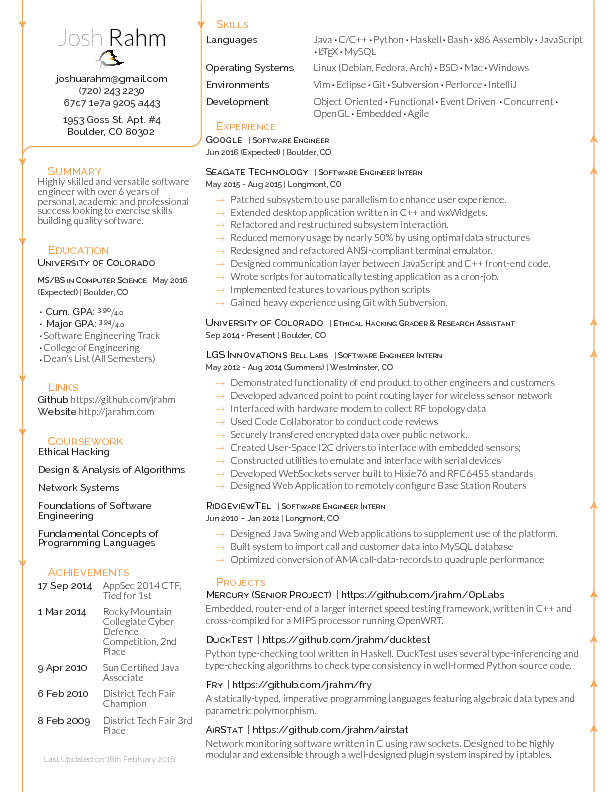
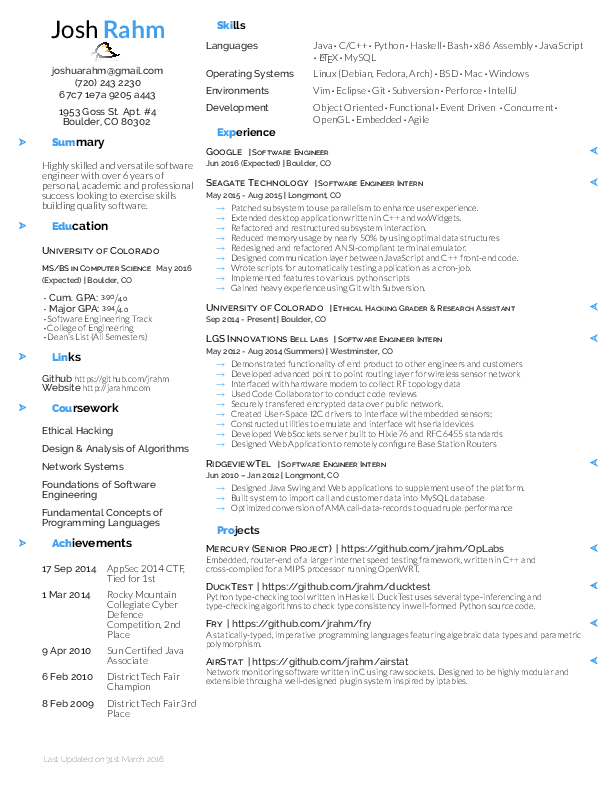
update to resume. New bold style

Changed region(s): [[0.3105, 0.0, 0.9935, 1.0], [0.031, 0.0303, 0.3105, 0.9394], [0.2484, 0.9394, 0.2794, 0.9697]]

diff --git a/resume.tex b/resume.tex
@@ -35,26 +35,26 @@
 \setlength{\TPHorizModule}{1in}
 \setlength{\TPVertModule}{1in}
 
-\begin{textblock}{1}(8.035,0) % adjust this!
-\begin{tikzpicture}[x=1in,y=1in]
-    \draw[-, line width=0.1em, color=topheadings]
-            (0, 0) -+ (0, 11);
-\end{tikzpicture}
-\end{textblock}
-
-\begin{textblock}{1}(0.098,0) % adjust this!
-\begin{tikzpicture}[x=1in,y=1in]
-    \draw[-, line width=0.1em, color=topheadings]
-            (0, 0) -+ (0, 11);
-\end{tikzpicture}
-\end{textblock}
-
-\begin{textblock}{1}(2.580,0) % adjust this!
-\begin{tikzpicture}[x=1in,y=1in]
-    \draw[-, line width=0.1em, color=topheadings]
-            (0, 0) -+ (0, 0.35);
-\end{tikzpicture}
-\end{textblock}
+% \begin{textblock}{1}(8.035,0) % adjust this!
+% \begin{tikzpicture}[x=1in,y=1in]
+%     \draw[-, line width=0.1em, color=topheadings]
+%             (0, 0) -+ (0, 11);
+% \end{tikzpicture}
+% \end{textblock}
+%
+% \begin{textblock}{1}(0.098,0) % adjust this!
+% \begin{tikzpicture}[x=1in,y=1in]
+%     \draw[-, line width=0.1em, color=topheadings]
+%             (0, 0) -+ (0, 11);
+% \end{tikzpicture}
+% \end{textblock}
+%
+% \begin{textblock}{1}(2.580,0) % adjust this!
+% \begin{tikzpicture}[x=1in,y=1in]
+%     \draw[-, line width=0.1em, color=topheadings]
+%             (0, 0) -+ (0, 0.35);
+% \end{tikzpicture}
+% \end{textblock}
 
 \newcommand*{\xdash}[1][3em]{\rule[0.5ex]{#1}{0.55pt}}
 
@@ -68,8 +68,8 @@
             \begin{center}
 
                 \fontsize{24pt}{24pt}
-                \fontspec[Path = fonts/lato/]{Lato-Hai}\selectfont{Josh}
-                \fontspec[Path = fonts/lato/]{Lato-Lig}\selectfont{Rahm}
+                \fontspec[Path = fonts/lato/]{Lato-Reg}\selectfont{Josh}
+                \fontspec[Path = fonts/lato/]{Lato-Bol}\selectfont\textcolor{topheadings}{Rahm}
 
                 \includesvg[height=20pt]{blackbird3-outlinesvg}
 
@@ -86,61 +86,61 @@
         \end{minipage}
     };
 
-    \draw[-, line width=0.1em, color=topheadings] % lower left arc%
-        {(namesection.south west)+(0, -20)}
-        arc (180:90:10);
+    % \draw[-, line width=0.1em, color=topheadings] % lower left arc%
+    %     {(namesection.south west)+(0, -20)}
+    %     arc (180:90:10);
 
-    % draw the bottom line
-    \draw[-, line width=0.1em, color=topheadings]
-        let
-            \p{sw} = (namesection.south west),
-            \p{se} = (namesection.south east),
-            \p{from} = ({\x{sw} + 10}, {\y{sw} - 10}),
-            \p{to} = ({\x{se} - 10}, {\y{se} - 10})
-        in
-        (\p{from}) -+ (\p{to}) ;
+    % % draw the bottom line
+    % \draw[-, line width=0.1em, color=topheadings]
+    %     let
+    %         \p{sw} = (namesection.south west),
+    %         \p{se} = (namesection.south east),
+    %         \p{from} = ({\x{sw} + 10}, {\y{sw} - 10}),
+    %         \p{to} = ({\x{se} - 10}, {\y{se} - 10})
+    %     in
+    %     (\p{from}) -+ (\p{to}) ;
 
-    % the right arc
-    \draw[-, line width=0.1em, color=topheadings] % lower left arc%
-        {(namesection.south east)+(-10, -10)}
-        arc (-90:0:10);
+    % % the right arc
+    % \draw[-, line width=0.1em, color=topheadings] % lower left arc%
+    %     {(namesection.south east)+(-10, -10)}
+    %     arc (-90:0:10);
 
-    % the right line
-    \draw[-, line width=0.1em, color=topheadings]
-        (namesection.south east) -+ (namesection.north east) ;
+    % % the right line
+    % \draw[-, line width=0.1em, color=topheadings]
+    %     (namesection.south east) -+ (namesection.north east) ;
 
-    % top arrow
-    \draw[-{Stealth[scale=2, length=4, width=4]},
-          line width=0.1em, color=topheadings]
-            {(namesection.north east) + (0, 0.01)} -- (namesection.north east);
+    % % top arrow
+    % \draw[-{Stealth[scale=2, length=4, width=4]},
+    %       line width=0.1em, color=topheadings]
+    %         {(namesection.north east) + (0, 0.01)} -- (namesection.north east);
 
-    % the left line
-    %\draw[-, line width=0.1em, color=topheadings]
-    %    let
-    %        \p{sw} = (namesection.south west),
-    %        \p{nw} = (namesection.north west),
-    %        \p{from} = ({\x{sw}, \y{sw} - 20pt}),
-    %        \p{to} = ({\x{nw}, \y{nw}})
-    %    in
-    %    (\p{from}) -+ (\p{to}) ;
+    % % the left line
+    % %\draw[-, line width=0.1em, color=topheadings]
+    % %    let
+    % %        \p{sw} = (namesection.south west),
+    % %        \p{nw} = (namesection.north west),
+    % %        \p{from} = ({\x{sw}, \y{sw} - 20pt}),
+    % %        \p{to} = ({\x{nw}, \y{nw}})
+    % %    in
+    % %    (\p{from}) -+ (\p{to}) ;
 
-    % the left arrow
-    \draw[-{Stealth[scale=2, length=4, width=4]},
-          line width=0.1em, color=topheadings]
-            let \p{nw} = (namesection.north west),
-                \p{to} = (\x{nw}, \y{nw})
-                in
-            {(namesection.north west) + (0, 0.01)} -- (\p{to});
+    % % the left arrow
+    % \draw[-{Stealth[scale=2, length=4, width=4]},
+    %       line width=0.1em, color=topheadings]
+    %         let \p{nw} = (namesection.north west),
+    %             \p{to} = (\x{nw}, \y{nw})
+    %             in
+    %         {(namesection.north west) + (0, 0.01)} -- (\p{to});
 
 
-    % \begin{scope}[x={(namesection.south east)},y={(namesection.north west)}]
-    %     \draw[-, line width=0.1em, color=topheadings] (0.95, -0.03) -- (0.95, 1);
-    %     \draw[-{Stealth[scale=2, length=4, width=4]}, line width=0.1em, color=topheadings] (0.95, 1) -- (0.95, 0.99);
-    %     \draw[-, line width=0.1em, color=topheadings] ({0.5em + 10pt}, -10pt) -- (0.88, -10pt);
-    %     \draw[-, line width=0.1em, color=topheadings] (0.88,-10pt) arc (-90:0:0.07);
-    %     \draw[-, line width=0.1em, color=topheadings] (0.5em,-20pt) arc (180:90:10pt);
-    %     \draw[-{Stealth[scale=2, length=4, width=4]}, line width=0.1em, color=topheadings] (0.5em, -20pt) -- (0.5em, -30pt);
-    % \end{scope}
+    % % \begin{scope}[x={(namesection.south east)},y={(namesection.north west)}]
+    % %     \draw[-, line width=0.1em, color=topheadings] (0.95, -0.03) -- (0.95, 1);
+    % %     \draw[-{Stealth[scale=2, length=4, width=4]}, line width=0.1em, color=topheadings] (0.95, 1) -- (0.95, 0.99);
+    % %     \draw[-, line width=0.1em, color=topheadings] ({0.5em + 10pt}, -10pt) -- (0.88, -10pt);
+    % %     \draw[-, line width=0.1em, color=topheadings] (0.88,-10pt) arc (-90:0:0.07);
+    % %     \draw[-, line width=0.1em, color=topheadings] (0.5em,-20pt) arc (180:90:10pt);
+    % %     \draw[-{Stealth[scale=2, length=4, width=4]}, line width=0.1em, color=topheadings] (0.5em, -20pt) -- (0.5em, -30pt);
+    % % \end{scope}
 \end{tikzpicture}
 
 \sidesection{Summary}{%
